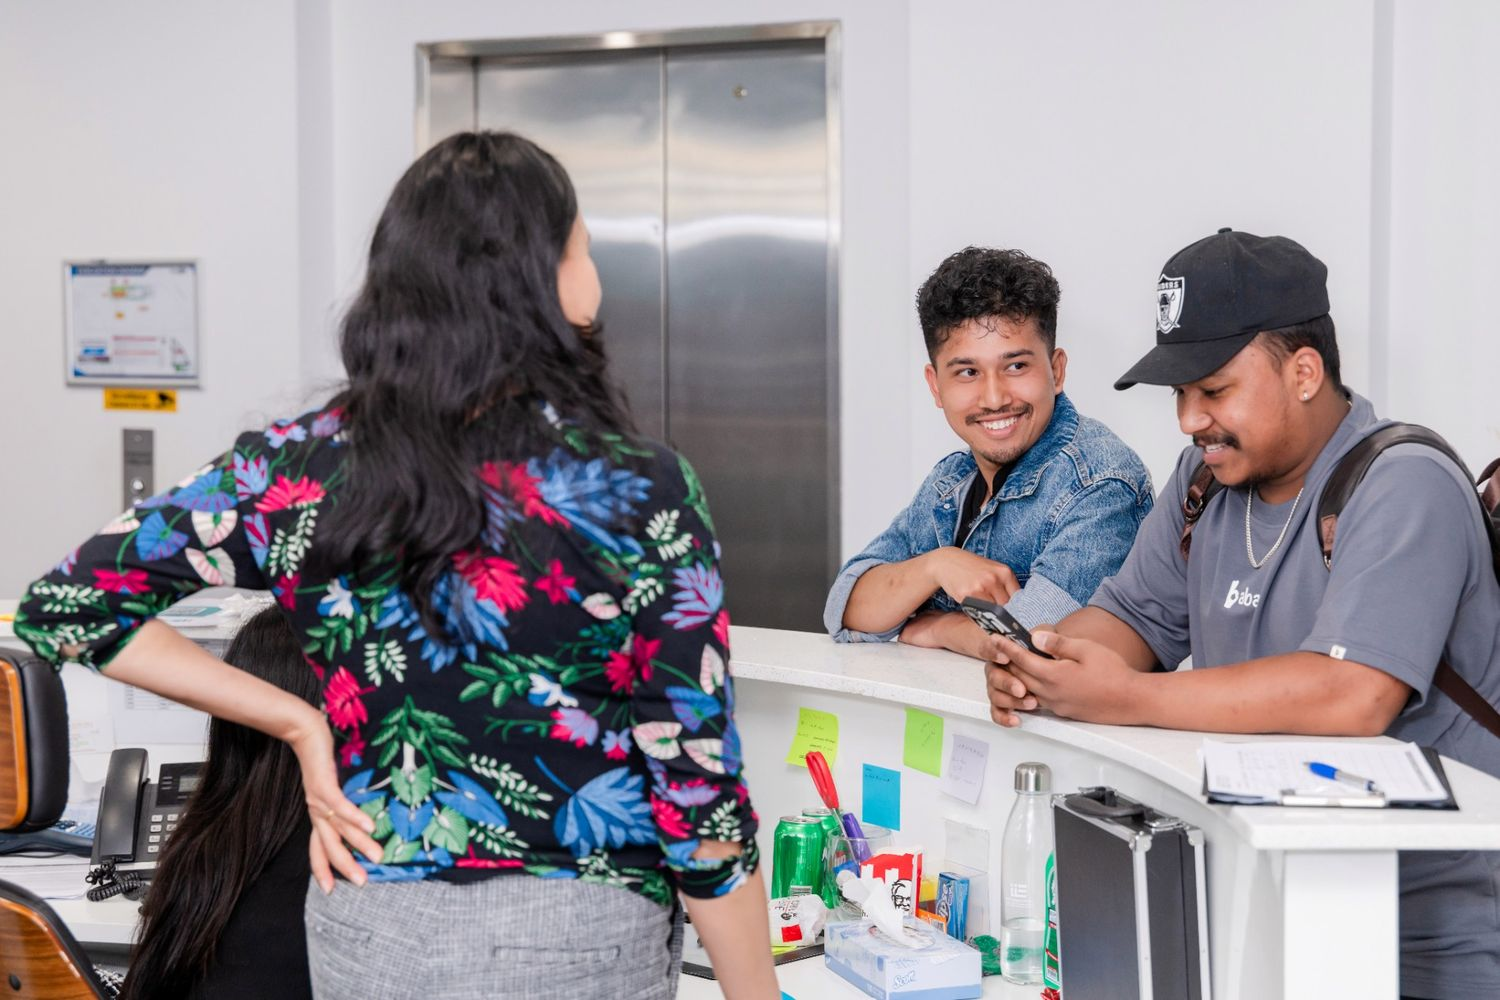
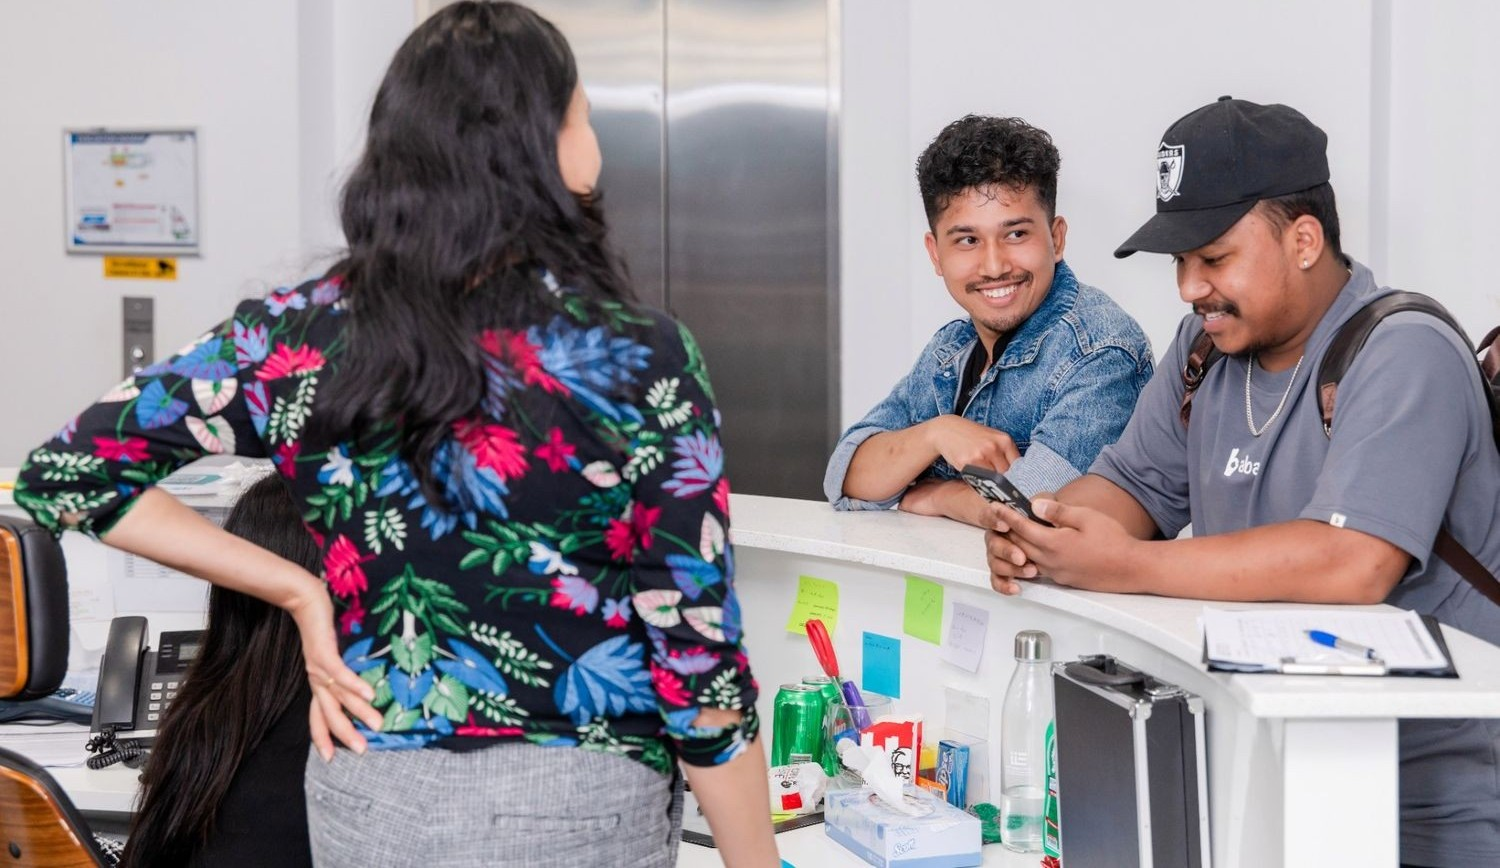
changed hte success gallery controller limit to 20

diff --git a/src/components/cards/TopBannerCard.jsx b/src/components/cards/TopBannerCard.jsx
@@ -16,7 +16,7 @@ const TopBannerCard = ({
         objectFit: "cover",
         width: "100%",
         backgroundSize: "cover",
-        backgroundPosition: "center",
+        backgroundPosition: "top center",
       }}
       className="lg:h-[50vh] h-[44vh] flex items-center"
     >
